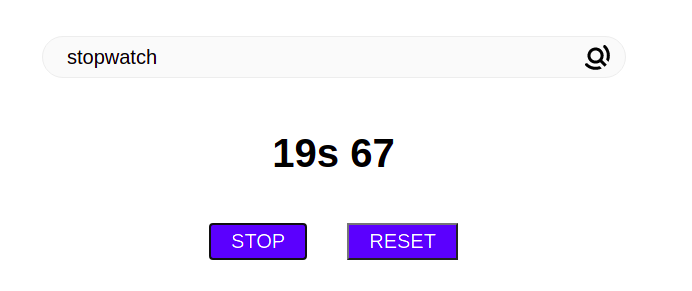
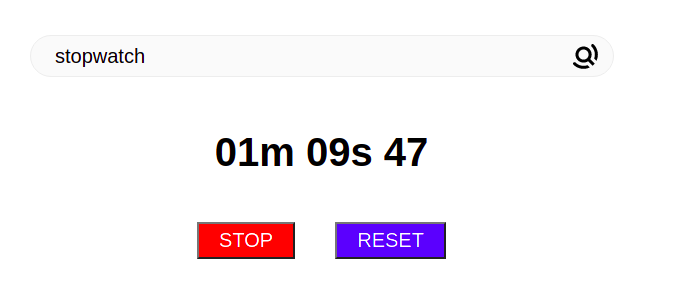
changing color in start stop button implemented using styled components

diff --git a/apps/stopwatch/src/App.tsx b/apps/stopwatch/src/App.tsx
@@ -1,17 +1,29 @@
 import React, { useEffect, useState } from "react";
-import styled from "styled-components";
+import styled, { ThemeProvider } from "styled-components";
 import { isTriggered } from "@felvin-search/core";
 
 //------------Styled Components-------------
 // If you're unfamiliar with styled components
 // start here https://styled-components.com/docs/basics#getting-started
-const Button = styled.button`
+const ButtonReset = styled.button`
   color: white;
   cursor:pointer;
   font-size: 1em;
   margin: 1em;
   padding: 0.25em 1em;
   background: blue;
+`;
+
+const theme = {
+  bg:"red",
+};
+
+const invertTheme={
+  bg:"green",
+};
+
+const ButtonStartStop = styled(ButtonReset)`
+  background:${props=>props.theme.bg};
 `;
 
 const Container = styled.div`;
@@ -73,8 +85,10 @@ function Component({ data }) {
       <h1 >{(Math.floor(currentTime/3600000) === 0)?"":(Math.floor(currentTime/3600000))+"h "}{(Math.floor(currentTime/60000) === 0)&&(Math.floor(currentTime/3600000) === 0)?"":(("0"+(Math.floor(currentTime/60000))%60)).slice(-2)+"m"}{" "+("0"+((Math.floor(currentTime/1000))%60)).slice(-2)}s{" "+("0"+(Math.floor(currentTime/10))%100).slice(-2)}</h1>
         
       <p >
-        <Button onClick={startStopButton}>{running?"STOP":"START"}</Button>
-        <Button onClick={resetButton}>RESET</Button>
+      <ThemeProvider theme={running?theme:invertTheme}>
+        <ButtonStartStop onClick={startStopButton}>{running?"STOP":"START"}</ButtonStartStop>
+      </ThemeProvider>
+        <ButtonReset onClick={resetButton}>RESET</ButtonReset>
       </p>
     </Container>
   );
